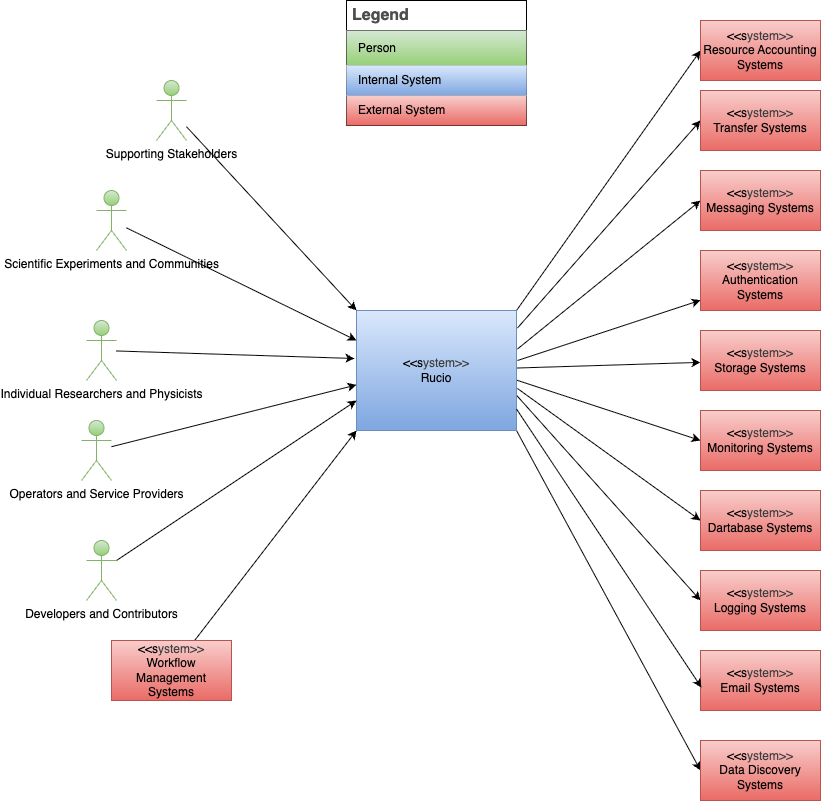
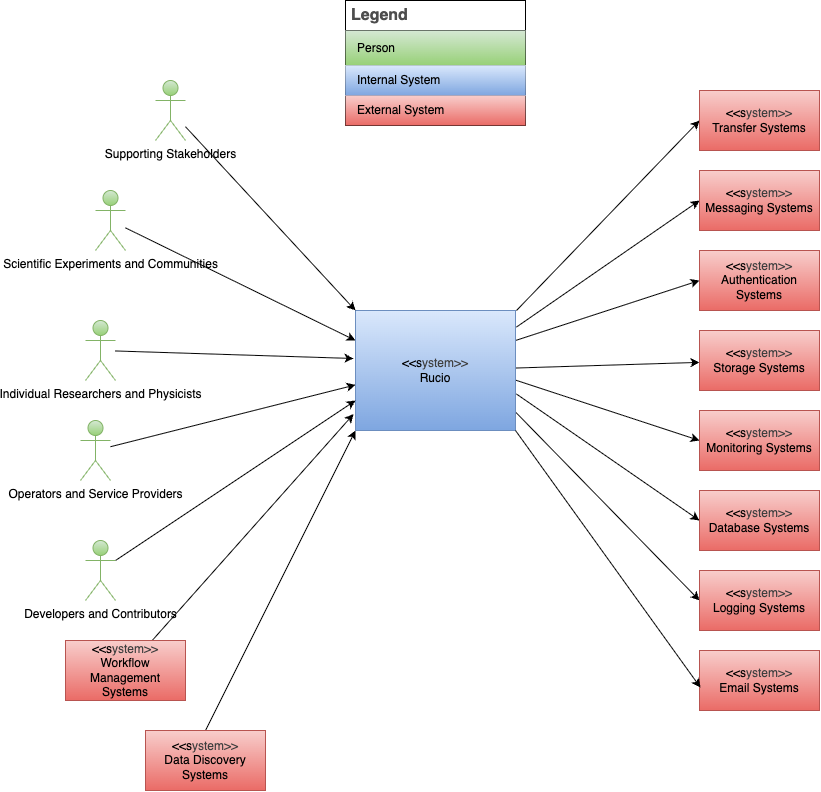
update high level structural diagrams and Context & Scope table entries

diff --git a/README.md b/README.md
@@ -33,15 +33,14 @@ See [What is Rucio?](https://rucio.github.io/documentation/started/what_is_rucio
 | --- | --- | --- |
 | Rucio | Internal System | Scientific data management framework providing declarative policy-based data organization, transfer, and lifecycle management across distributed heterogeneous storage infrastructure |
 | Workflow Management Systems | External System | Job and task orchestration platforms including HPC clusters with batch scheduling systems, container orchestration, scientific workflow engines and data preparation pipelines  that coordinate with Rucio for data availability, computational processing, and output registration |
-| Authentication Systems | External System | Identity and access management services providing user authentication and authorization through various protocols and credential mechanisms, including federated multi-issuer token services and policy decision points for fine-grained access control |
-| Storage Systems | External System | Heterogeneous storage backends including traditional filesystems, object storage, tape archives, cloud storage and external data repositories (such as Copernicus, DestinE, EUCAIM) accessed through standardized protocols, with QoS-aware tiering and HPC parallel filesystems |
-| Monitoring Systems | External System | Analytics and observability platforms that collect, process, and visualize system performance metrics, usage statistics, and operational health data, including research infrastructure services providing popularity analytics and domain-specific metadata services |
+| Authentication Systems | External System | Identity and access management services providing user authentication and authorization through various protocols and credential mechanisms, including federated multi-issuer token services |
+| Storage Systems | External System | Heterogeneous storage backends including traditional filesystems, object storage, tape archives, cloud storage and external data repositories |
+| Monitoring Systems | External System | Analytics and observability platforms that collect, process, and visualize system performance metrics, usage statistics and operational health data |
 | Logging Systems | External System | Centralized logging infrastructure that aggregates, stores, and provides search capabilities for system events, audit trails, and troubleshooting information |
-| Resource Accounting Systems | External System | Credit management and quota enforcement services that track resource consumption, manage allocations, and enforce usage limits across federated infrastructure | 
-| Data Discovery Systems | External System | Catalogue and metadata federation services including ESGF Search, FAIR Data Points, and domain-specific discovery interfaces that enable cross-repository data location and metadata harmonization | 
+| Data Discovery Systems | External System | Catalogue and metadata federation services including ESGF Search, FAIR Data Points, and domain-specific discovery interfaces that enable cross-repository data location and metadata harmonization |
 | Database Systems | External System | Transactional relational database management systems that serve as the persistence layer for catalog metadata, system state, and configuration data, including FAIR Data Points providing standardized metadata and data discovery services |
-| Transfer Systems | External System | Data movement services and protocols that handle the physical transfer of files between storage endpoints with reliability, scheduling, and error handling capabilities |
-| Messaging Systems | External System | Messaging services that enable asynchronous communication between distributed components, supporting event-driven architectures, decoupling, reliable message delivery, and catalogue change notifications to external applications |
+| Transfer Systems | External System | Data movement services and protocols that handle the physical transfer of files between storage endpoints with reliability, scheduling and error handling capabilities |
+| Messaging Systems | External System | Messaging services that enable asynchronous communication between distributed components, supporting event-driven architectures, decoupling, reliable message delivery and catalogue change notifications to external applications |
 | ~~Caching Systems~~ | ~~External System~~ | ~~High-speed data stores that temporarily hold frequently accessed data to reduce latency, decrease load on primary data sources, and improve overall system performance through intelligent data placement algorithms~~ |
 | Email Systems | External System | SMTP-based notification services that deliver system alerts, status updates, operational notifications, and administrative communications to users and operators for workflow management and incident response |
 
